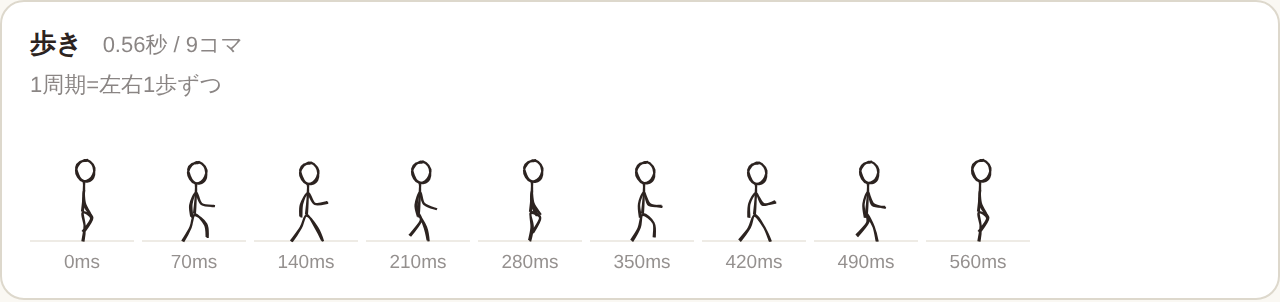
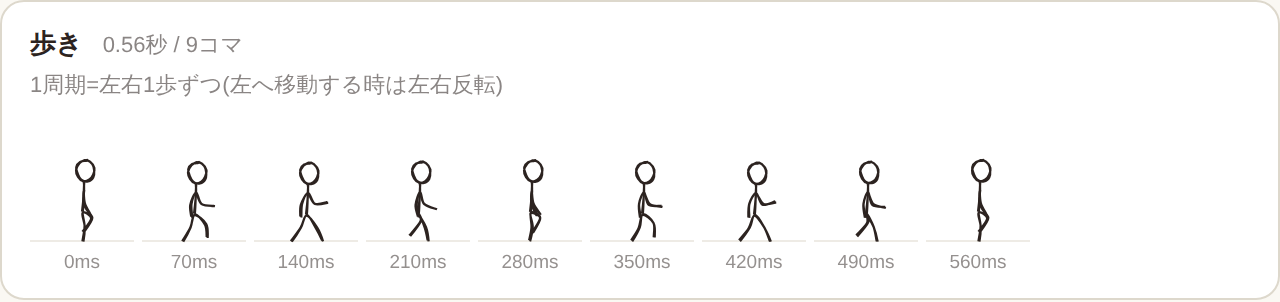
改行だけを消した時は放り投げず移動として扱い、左へ動く時は左向きに歩く
- 空行や行頭でのBackspaceのように、文字数が減らず改行だけが消えた時も放り投げが
  出ていた(削除系の操作なら消えた文字数を最低1として投げていた)。実際に文字数が
  減った時だけ投げ、それ以外は同じ行なら歩き、行をまたげば改行ジャンプにする
- 歩きは常に右向きで、左へ動く時は後ろ向きに下がっていた。キャレットの移動方向に
  合わせて、左へ動く時は左右反転した歩きにする

Claude-Session: https://claude.ai/code/session_01HG8sCsKqCo4Dxu5mMbs57H

Changed region(s): [[0.1562, 0.2384, 0.4062, 0.3278]]

diff --git a/src/editor.ts b/src/editor.ts
@@ -364,6 +364,8 @@ export class CaretmanEditor {
       isHop = true;
       this.state.triggerHop(performance.now(), x - this.lastCaretX);
     }
+    // 歩く向きは、キャレットが動いた向きに合わせる(左へ1文字戻る時は左向きに歩く)
+    if (!isHop && moveKind !== 'jump' && this.lastCaretX !== null) this.state.setWalkDir(x - this.lastCaretX);
     this.lastCaretX = x;
 
     // ジャンプ/ホップでの移動はふわっと、通常の移動は素早く
@@ -387,12 +389,14 @@ export class CaretmanEditor {
       const inputEvent = e as InputEvent;
       this.state.recordActivity(performance.now());
       const newLength = this.editor.textContent?.length ?? 0;
-      const isDelete = inputEvent.inputType?.startsWith('delete') && !inputEvent.isComposing;
-      // Undo/Redoはinputtype自体では削除か追加か分からないので、文字数の増減で判定する
-      const isHistoryDelete = inputEvent.inputType?.startsWith('history') && newLength < this.lastTextLength;
-      if (isDelete || isHistoryDelete) {
-        const deletedLength = Math.max(1, this.lastTextLength - newLength);
-        this.state.triggerThrow(performance.now(), deletedLength);
+      // 放り投げは、実際に文字が減った時だけ。空行や行頭でのBackspaceのように改行だけが消えた時は
+      // 文字数が変わらないので投げず、ただの移動(同じ行なら歩き、行をまたげば改行ジャンプ)として扱う
+      // (Undo/RedoもinputTypeだけでは削除か追加か分からないので、同じく文字数の増減で判定する)
+      const isDeleteType =
+        (inputEvent.inputType?.startsWith('delete') && !inputEvent.isComposing) ||
+        inputEvent.inputType?.startsWith('history');
+      if (isDeleteType && newLength < this.lastTextLength) {
+        this.state.triggerThrow(performance.now(), this.lastTextLength - newLength);
       }
       this.lastTextLength = newLength;
       this.updateFigurePosition();

diff --git a/src/pose.ts b/src/pose.ts
@@ -86,6 +86,7 @@ export class StickmanState {
   private pasteDuration = PASTE_DURATION_BASE;
   private hopActive = false;
   private hopDir = 1; // 1=画面右へ / -1=画面左へ移動中
+  private walkDir = 1; // 1=右向きに歩く / -1=左向きに歩く
   private hopStart = 0;
   private selecting = false;
   private composing = false;
@@ -130,6 +131,11 @@ export class StickmanState {
 
   isPasteActive(): boolean {
     return this.pasteActive;
+  }
+
+  /** 歩く向きをキャレットの移動方向に合わせる(dx=0の時は向きを変えない) */
+  setWalkDir(dx: number): void {
+    if (dx !== 0) this.walkDir = dx > 0 ? 1 : -1;
   }
 
   isHopActive(): boolean {
@@ -496,6 +502,11 @@ export class StickmanState {
       elbowLOverride = armLPose.elbow;
       armR = armRPose.hand;
       elbowROverride = armRPose.elbow;
+      // 左へ歩く時は、右向きの歩きをそのまま左右反転する(腰の真上 x=0 を軸に折り返す)
+      if (this.walkDir < 0) {
+        for (const p of [neck, hip, armL, armR, kneeL, kneeR, footL, footR, armLPose.elbow, armRPose.elbow]) p.x = -p.x;
+        head.cx = -head.cx;
+      }
     } else if (isShortIdle) {
       // 通常時: 腕を上げてキャレットのフリをする(上げ直しは0.2秒くらいで)
       const downArmL = { x: neutral.armL.x, y: neutral.armL.y };

diff --git a/src/motionReview/filmstrips.ts b/src/motionReview/filmstrips.ts
@@ -23,7 +23,7 @@ const SPECS: Record<DemoState, StripSpec> = {
   base: { start: 0, duration: 0, frames: 1 },
   shortIdle: { start: 3000, duration: 200, frames: 5, caption: '3秒待ってから腕を上げる(以降はキャレットのように点滅)' },
   shortIdleBetween: { start: 3000, duration: 200, frames: 5, caption: '文字の間では体を細く潰す' },
-  walk: { start: 0, duration: 560, frames: 9, caption: '1周期=左右1歩ずつ' },
+  walk: { start: 0, duration: 560, frames: 9, caption: '1周期=左右1歩ずつ(左へ移動する時は左右反転)' },
   longIdle: { start: 2000, duration: 1800, frames: 9, caption: '1周期=左右に1往復' },
   givenUp: { start: 0, duration: 1500, frames: 7, caption: '立ち姿からあぐらへ' },
   jump: { start: 0, duration: 700, frames: 11, caption: '助走→跳躍→着地' },

diff --git a/README.md b/README.md
@@ -17,7 +17,7 @@
 
 | 状態 | 発生条件(目安) | 内容 |
 | --- | --- | --- |
-| 打っている(歩行) | 直近300ms以内に入力・移動があった(IME変換中も含む) | 横から見た連続的な歩行サイクル(1周期0.56秒)。足は接地中に後ろへ流れ、浮いている間に膝を前へ出して振り出す。脚が開いた瞬間に腰が沈む上下動と、脚と逆向きの腕振り。速さに関わらず常に「歩き」で統一 |
+| 打っている(歩行) | 直近300ms以内に入力・移動があった(IME変換中も含む) | 横から見た連続的な歩行サイクル(1周期0.56秒)。キャレットが左へ動いた時は左向きに歩く。足は接地中に後ろへ流れ、浮いている間に膝を前へ出して振り出す。脚が開いた瞬間に腰が沈む上下動と、脚と逆向きの腕振り。速さに関わらず常に「歩き」で統一 |
 | 短い待機(基本ポーズ) | 入力/移動が止まってから300ms〜3.3秒 | 腕を下ろした基本ポーズのまま。歩行から急に「キャレットのフリ」へ移ると慌ただしいため、いったんここで間を持たせる |
 | 短い待機(キャレットのフリ) | 上記からさらに3秒(=計3.3秒)経過、30秒未満 | 腕を上げてキャレットのフリをするポーズ。一般的なキャレットと同じ間隔(0.53秒)でパキッと点滅する。上げ直しは約0.2秒、下ろすのは即座 |
 | 短い待機(文字の間) | 上記の待機中、かつキャレットの後ろに文字がある | 腕・膝・脚を中心軸に寄せ、頭も潰して「横から見た棒」に近い細いシルエットにする |
@@ -25,7 +25,7 @@
 | あきらめて着席 | 長い待機からさらに5分経過 | なめらかにあぐらへ遷移 |
 | 選択中 | テキスト選択中(ダブル/トリプルクリックの単語・行選択も含む。IME変換中の文節ハイライトは除く) | 両腕をほぼ真上に伸ばし、手先だけ右へ向けるポーズ |
 | 行またぎジャンプ | Enter、行を跨ぐBackspace/矢印キー/クリックなど | 助走(しゃがんで肘を曲げて踏ん張る)→跳躍(脚を畳んで体ごと浮き、頂点で腕を振り上げる)→着地の踏ん張り。位置移動は助走が終わったタイミングで、跳躍と同時に行う |
-| 削除(放り投げ) | Backspace/Deleteで文字を削除 | 左足を踏み込んで腰を落とし足元から両手で掬う溜め→体をのけぞらせて画面右上へ全力で振り抜く→余韻→戻り。削除した文字量が多いほど長くする |
+| 削除(放り投げ) | Backspace/Deleteで文字を削除(空行や行頭で改行だけを消した時は投げず、歩き/改行ジャンプの移動として扱う) | 左足を踏み込んで腰を落とし足元から両手で掬う溜め→体をのけぞらせて画面右上へ全力で振り抜く→余韻→戻り。削除した文字量が多いほど長くする |
 | 貼り付け | Ctrl+V など(書式は捨ててテキストだけを挿入) | 前傾して腰を落とし、両腕を画面左へ突き出して全力で押し込む構え。貼り付けた文字量が多いほど長くする |
 | 複数文字ホップ | Home/End・単語単位の移動・遠距離クリックなど、同一行内で1.5文字以上の横移動(IME変換中は除く) | 移動方向へ、肘に引っぱられるように飛び出す。上半身はほぼ起こしたまま後ろ脚を斜めに蹴り出す。左右の移動方向で反転 |
 | 変換中 | IME変換中(compositionstart〜compositionend) | 不透明度を0.4まで落とし、変換候補の文字と被らないようにする |
